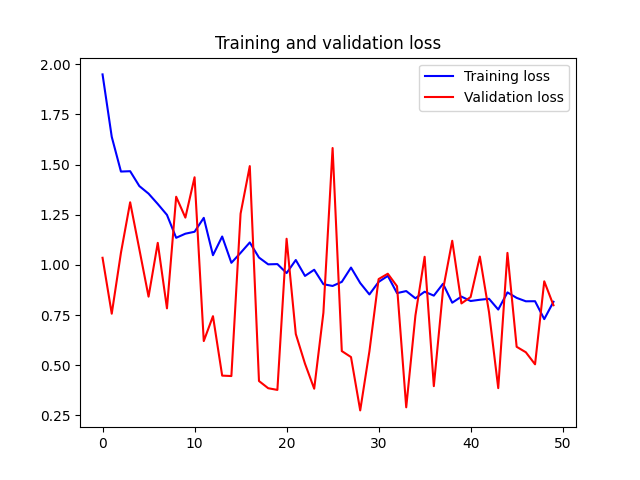
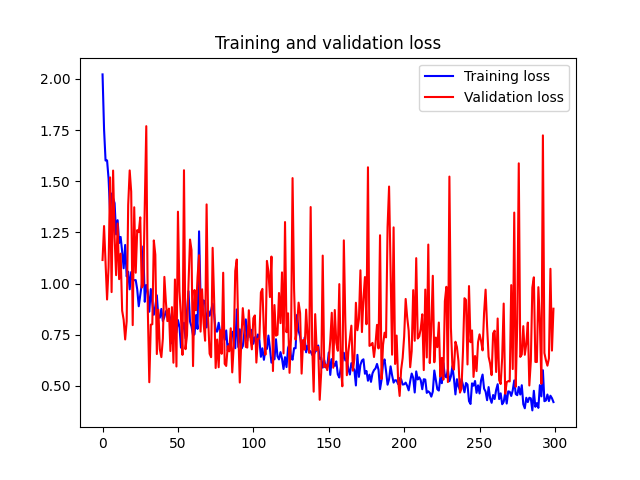
chore: accuracy 80%

diff --git a/DataGenerator.py b/DataGenerator.py
@@ -79,7 +79,11 @@ class MobiFallGenerator(keras.callbacks.Callback):
         print('DATA LOADED !!')
 
     def label_to_numeric(self, activity):
-        return self.label_map[activity]
+        try:
+            return self.label_map[activity]
+        except Exception as err:
+            print(err)
+            return int(activity)
 
     def feed_csv(self, columns, file, ADL, SUBJECT_ID, TRIAL_NO):
         df = pd.read_csv(file, skiprows=16, names=columns)
@@ -100,7 +104,7 @@ class MobiFallGenerator(keras.callbacks.Callback):
         # target_activity = activities[random.randint(0, len(activities) - 1)]
         # print(' ACTIVITIES {}'.format(str(main_df['activity'].unique())))
 
-        target_df = main_df
+        target_df = main_df.copy()
         # target_df = main_df[main_df['activity'] == target_activity]
         target_df['activity'] = target_df['activity'].apply(lambda activity: self.label_to_numeric(activity))
 
@@ -154,8 +158,6 @@ class MobiFallGenerator(keras.callbacks.Callback):
         # keep in mind that whatever timestamps you pass in one bundle of x
         # the target label for that timestamps should be same
 
-        print(" WE ARE TRAINING FOR SUBJECT ID  {} WITH BATCH_SIZE {}".format(self._target_subject_id, batchsize))
-
 
         # there is 500 timestasmps minumum for each activity
         if isTrain:
@@ -204,13 +206,14 @@ class MobiFallGenerator(keras.callbacks.Callback):
             ret = self.get_batch(self.batch_size, False)
             yield ret
 
-    def get_test_data(self, subject_id=None, batchsize=30):
+    def get_test_data(self, subject_id=None, batchsize=30, activity = '3'):
         """
         x shape = [datasize, 3]
         y shape = [data-size ,1]
         :return:
         """
         target_df = self._all_data[self._all_data['subject_id'] == str(subject_id)]
+        target_df = target_df[target_df['activity'] == activity]
         target_df = target_df.sort_values(
             by=['timestamp', 'subject_id', 'trial_id'], ascending=[True, True, True])
         train_x = []

diff --git a/model.py b/model.py
@@ -1,6 +1,6 @@
 from tensorflow.keras import Sequential
 from tensorflow.keras.layers import LSTM, Dropout, Dense
-from tensorflow.keras.optimizers import SGD
+from tensorflow.keras.optimizers import SGD, Adam
 
 
 class MobiFallNet(object):
@@ -17,8 +17,9 @@ class MobiFallNet(object):
         if pretrained_path != None:
             self.model.load_weights(pretrained_path)
             print('Loading weights from {}'.format(pretrained_path))
-        optimizer = SGD(lr=0.01, nesterov=True)
-        self.model.compile(loss='categorical_crossentropy', optimizer='adam', metrics=['accuracy'])
+        # optimizer = SGD(lr=0.01, momentum=0.9, nesterov=True)
+        adam = Adam(lr=0.001)
+        self.model.compile(loss='categorical_crossentropy', optimizer=adam, metrics=['accuracy'])
 
     def get_model(self):
         print(self.model.summary())

diff --git a/driver.py b/driver.py
@@ -31,12 +31,12 @@ label_map = list(label_map.keys())
 
 SENSOR_TO_TRAIN = ['acc', 'ori', 'gyro']
 
-n_timestamps = 30
+n_timestamps = 150
 
-run_step = 30
+run_step = 150
 
 # train the network
-steps_per_epoch = 10
+steps_per_epoch = 20
 epochs = 1
 batchsize = steps_per_epoch * epochs
 
@@ -112,6 +112,6 @@ def draw_flow(test_data, label):
             print('Inference Time', inference_time)
 
 
-x, y = generator.get_test_data(2, batchsize = 400)
+x, y = generator.get_test_data(subject_id=2, activity='WAL', batchsize = 100)
 for i in range(len(x)):
     draw_flow(x[i], y[i])

diff --git a/train.py b/train.py
@@ -8,12 +8,14 @@ ROOT_DIRECTORY = os.getcwd()
 
 SENSOR_TO_TRAIN = ['acc', 'ori', 'gyro']
 
-n_timestamps = 30
+n_timestamps = 150
 
 # train the network
-steps_per_epoch = 50
-epochs = 50
-batchsize = steps_per_epoch * epochs
+steps_per_epoch = 40
+epochs = 300
+# batchsize = steps_per_epoch * epochs
+batchsize = 32
+
 
 generator = MobiFallGenerator('./dataset/*/*/*/*/*.txt',
                               train_for=SENSOR_TO_TRAIN[0],
